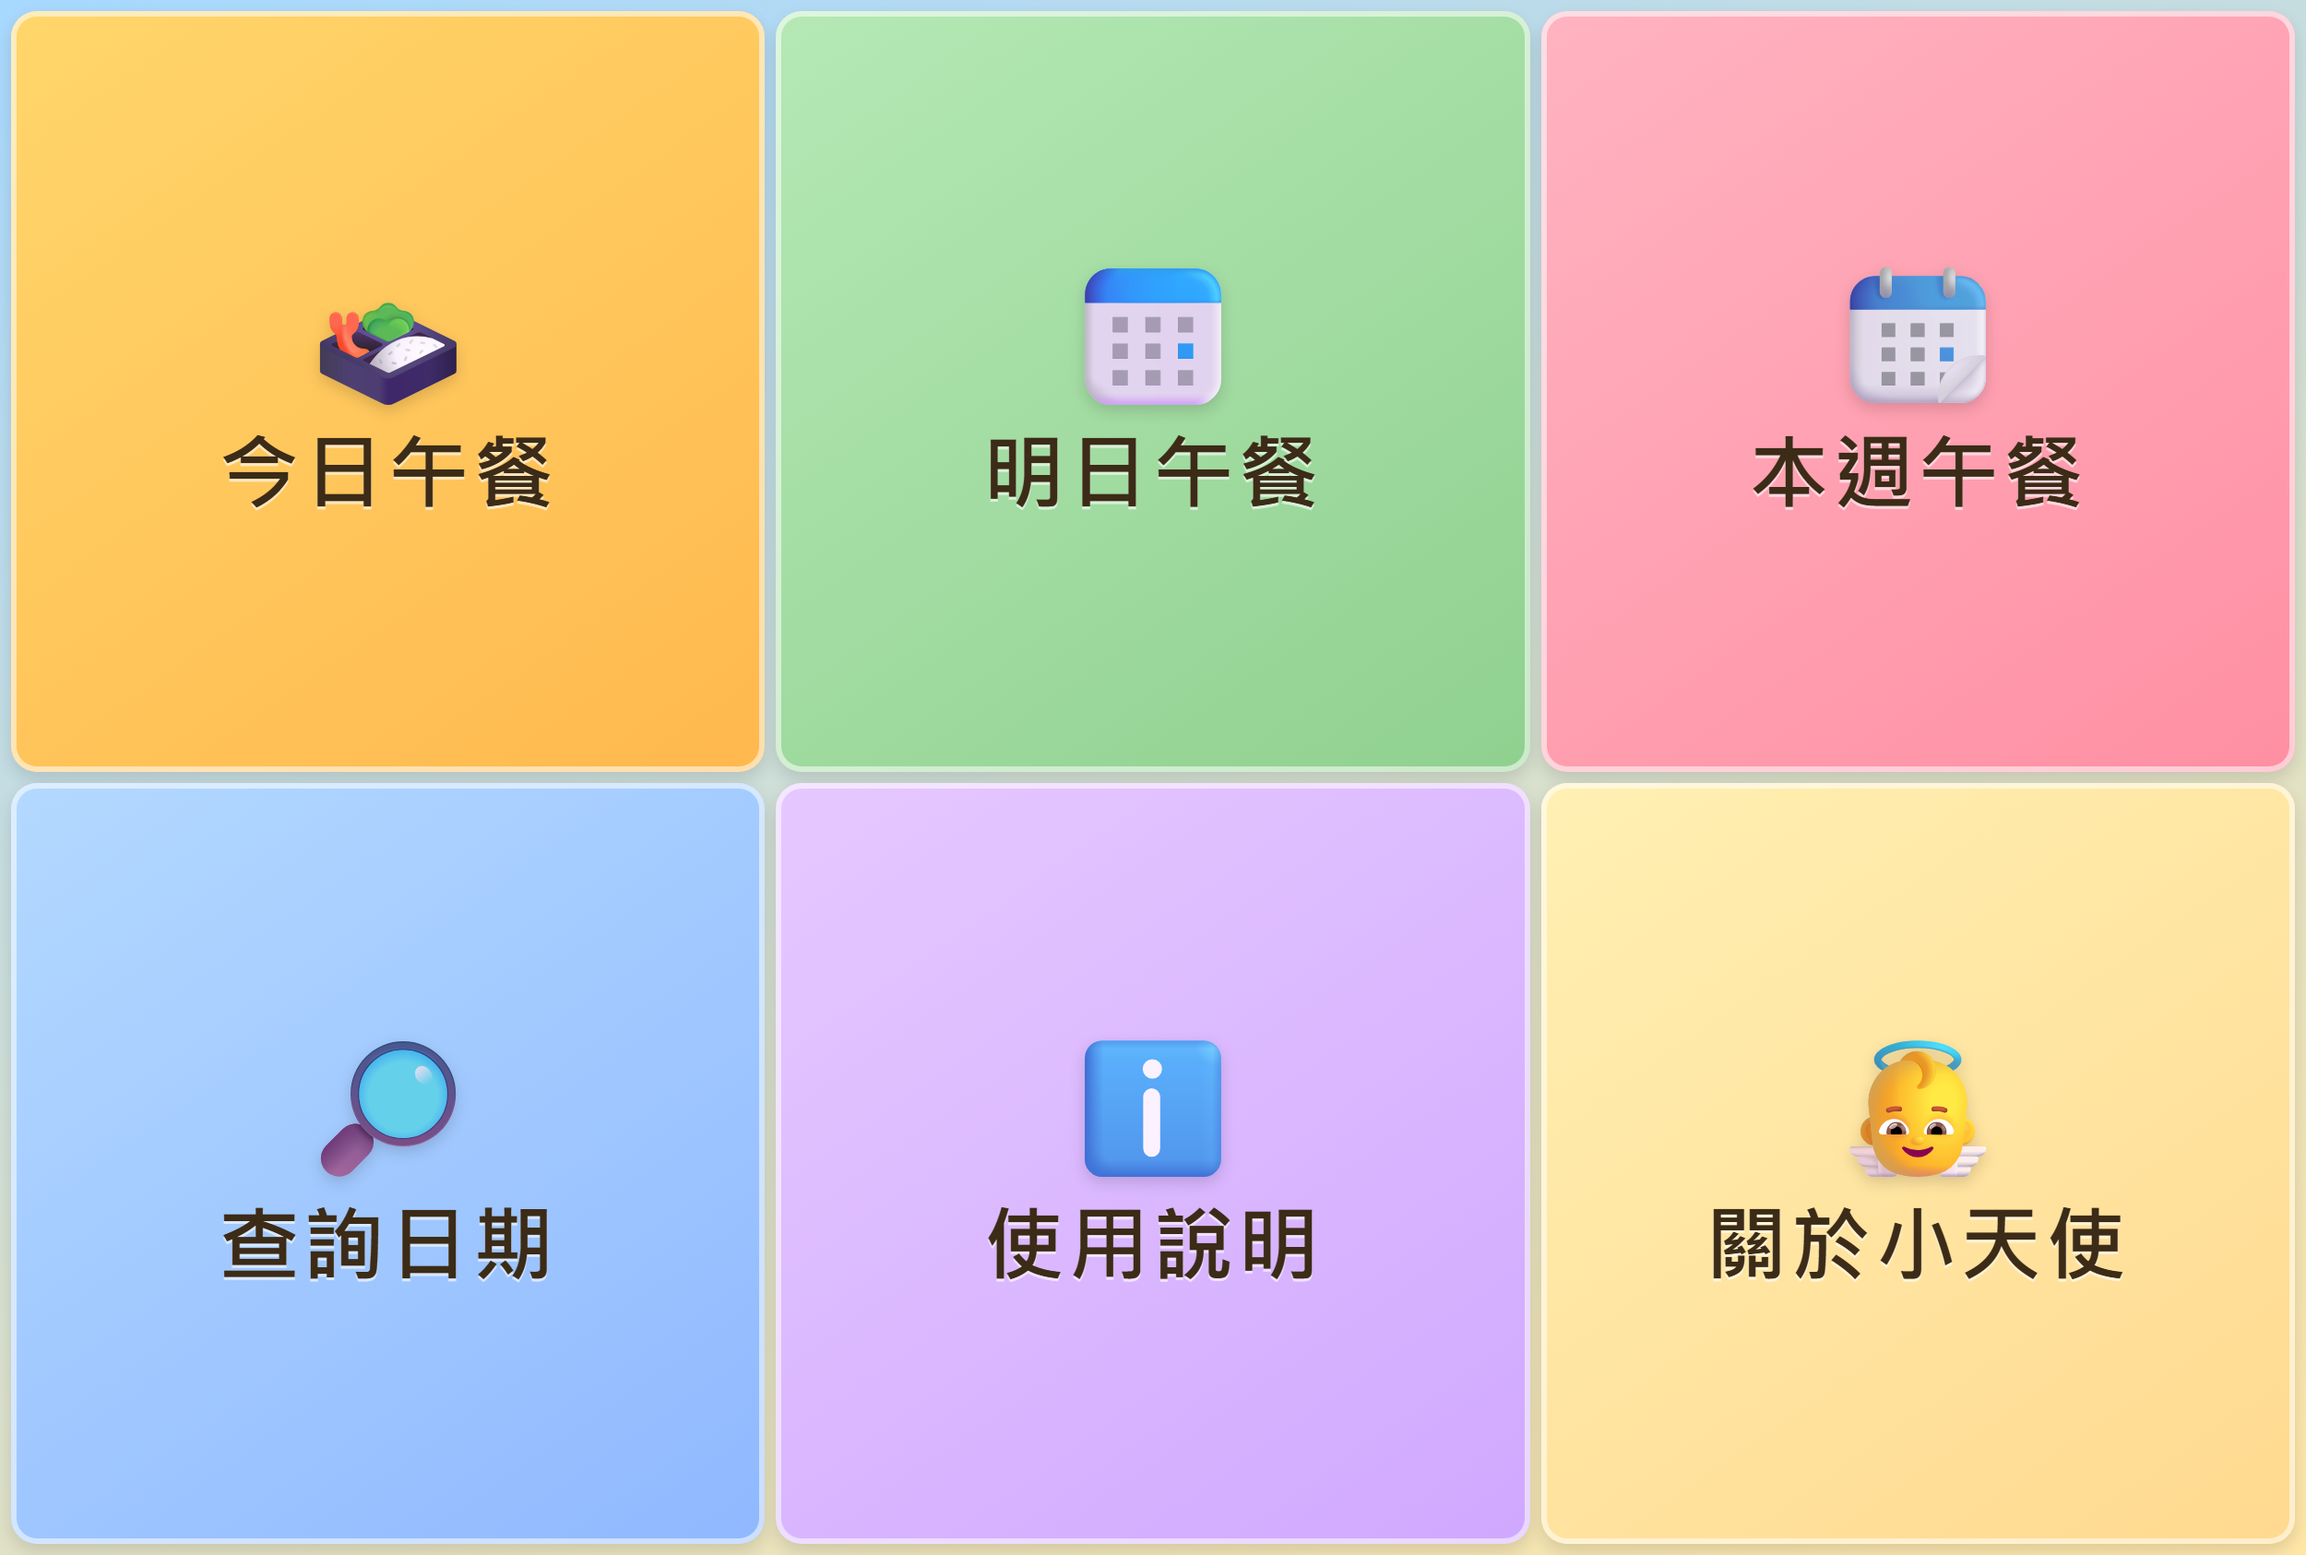
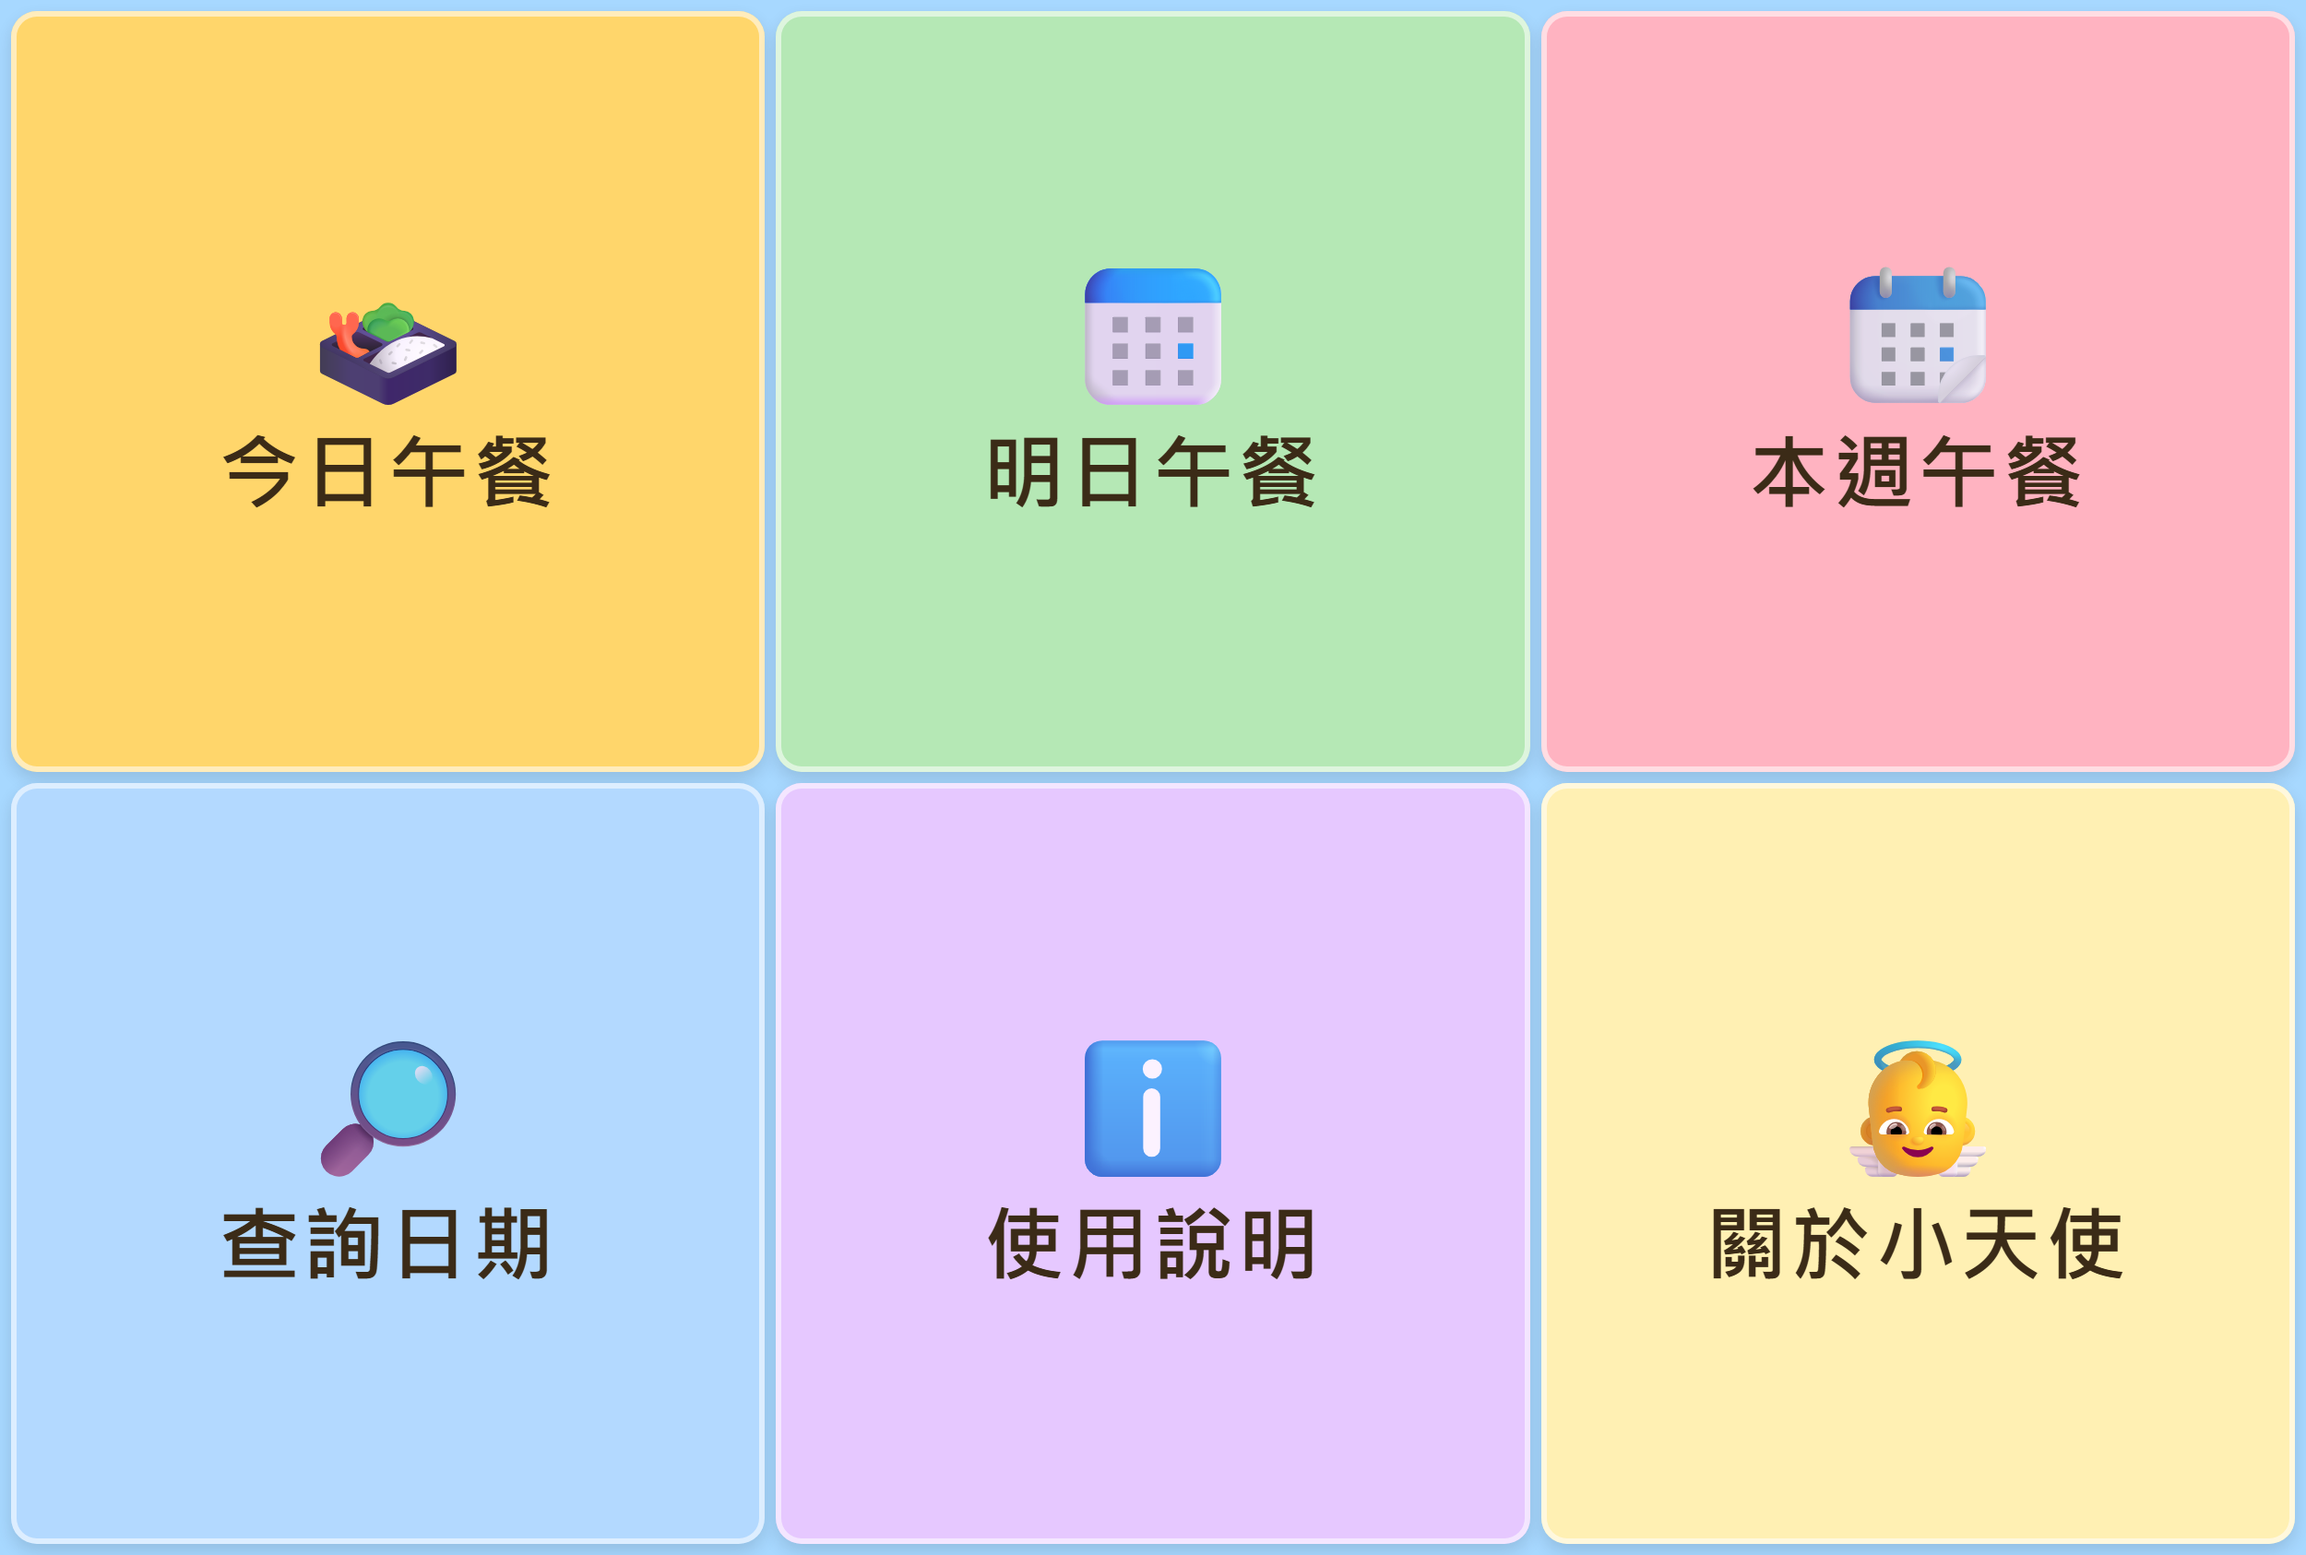
fix: use correct sdk accessors and repair rich menu on skip

diff --git a/src/line/richMenu.js b/src/line/richMenu.js
@@ -90,7 +90,7 @@ export async function getExistingRichMenu() {
   const lineClient = getClient();
   if (!lineClient) return null;
 
-  const list = await lineClient.messagingApi.getRichMenuList();
+  const list = await lineClient.clients.messagingApi.getRichMenuList();
   const richMenus = list.richmenus ?? [];
   return richMenus.find((menu) => menu.name === RICH_MENU_NAME) ?? null;
 }
@@ -99,7 +99,7 @@ export async function createRichMenu() {
   const lineClient = getClient();
   if (!lineClient) return null;
 
-  const response = await lineClient.messagingApi.createRichMenu(buildRichMenuRequest());
+  const response = await lineClient.clients.messagingApi.createRichMenu(buildRichMenuRequest());
   return response?.richMenuId ?? null;
 }
 
@@ -109,7 +109,7 @@ export async function uploadRichMenuImage(richMenuId) {
 
   const buffer = await readFile(RICH_MENU_IMAGE_PATH);
   const blob = new Blob([buffer], { type: 'image/png' });
-  await lineClient.messagingApiBlob.setRichMenuImage(richMenuId, blob);
+  await lineClient.clients.messagingApiBlob.setRichMenuImage(richMenuId, blob);
   return true;
 }
 
@@ -117,7 +117,7 @@ export async function setDefaultRichMenu(richMenuId) {
   const lineClient = getClient();
   if (!lineClient) return false;
 
-  await lineClient.messagingApi.setDefaultRichMenu(richMenuId);
+  await lineClient.clients.messagingApi.setDefaultRichMenu(richMenuId);
   return true;
 }
 
@@ -125,7 +125,7 @@ export async function deleteRichMenu(richMenuId) {
   const lineClient = getClient();
   if (!lineClient) return false;
 
-  await lineClient.messagingApi.deleteRichMenu(richMenuId);
+  await lineClient.clients.messagingApi.deleteRichMenu(richMenuId);
   return true;
 }
 
@@ -142,6 +142,27 @@ async function writeRichMenuMetadata(richMenuId) {
   await import('node:fs/promises').then(({ writeFile }) =>
     writeFile(RICH_MENU_METADATA_PATH, JSON.stringify(metadata, null, 2))
   );
+}
+
+async function richMenuHasImage(richMenuId) {
+  try {
+    const stream = await getClient().clients.messagingApiBlob.getRichMenuImage(richMenuId);
+    for await (const _ of stream) {
+      break;
+    }
+    return true;
+  } catch {
+    return false;
+  }
+}
+
+async function isDefaultRichMenu(richMenuId) {
+  try {
+    const current = await getClient().clients.messagingApi.getDefaultRichMenuId();
+    return current?.richMenuId === richMenuId;
+  } catch {
+    return false;
+  }
 }
 
 export async function ensureRichMenu({ logger = console } = {}) {
@@ -161,6 +182,19 @@ export async function ensureRichMenu({ logger = console } = {}) {
   const existing = await getExistingRichMenu();
   if (existing) {
     logger.log('[rich-menu] 已存在 lunch-angel-main，SKIP');
+
+    const hasImage = await richMenuHasImage(existing.richMenuId);
+    if (!hasImage) {
+      logger.log('[rich-menu] 偵測到缺少圖片，補上傳圖片');
+      await uploadRichMenuImage(existing.richMenuId);
+    }
+
+    const isDefault = await isDefaultRichMenu(existing.richMenuId);
+    if (!isDefault) {
+      logger.log('[rich-menu] 尚未設為 default，補設定');
+      await setDefaultRichMenu(existing.richMenuId);
+    }
+
     await writeRichMenuMetadata(existing.richMenuId);
     return { ok: true, status: 'SKIP', richMenuId: existing.richMenuId };
   }
